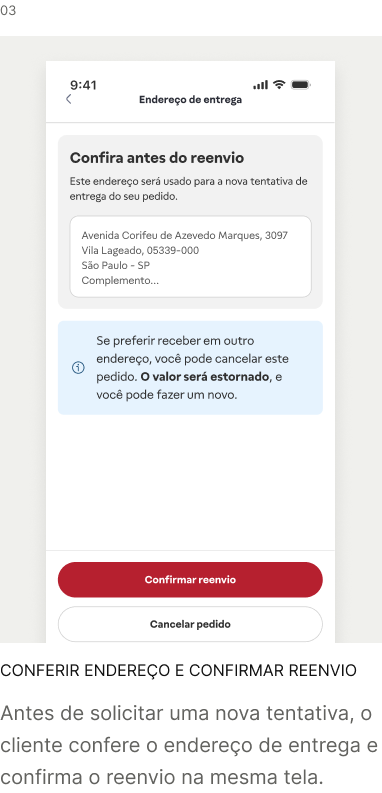
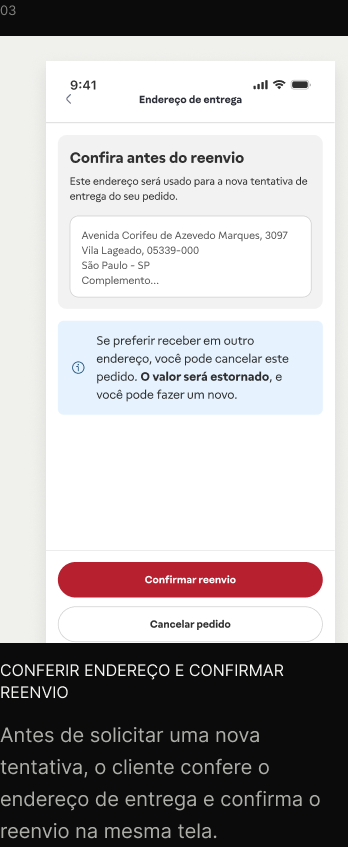
fix: use figma exports for reenvio solution

diff --git a/components/product-artifacts.tsx b/components/product-artifacts.tsx
@@ -1,168 +1,61 @@
 "use client";
 
+import type { CSSProperties } from "react";
 import { PortfolioCarousel } from "@/components/carousel";
 
-function PhoneFrame({ children }: { children: React.ReactNode }) {
-  return (
-    <div className="product-phone">
-      <div className="product-phone__status">
-        <span>9:41</span>
-        <span>● ● ●</span>
-      </div>
-      {children}
-    </div>
-  );
-}
+const reenvioSolutionSlides = [
+  {
+    title: "Problema na entrega",
+    description: "O produto comunica que o pedido retornou para a farmácia.",
+    desktop: { src: "/figma/reenvio-solution-desktop-1.png", width: 348, height: 760 },
+    mobile: { src: "/figma/reenvio-solution-mobile-1.png", width: 300, height: 597 },
+  },
+  {
+    title: "Pedido não entregue",
+    description: "Dentro do Tracking, o problema deixa de ser ambíguo e já apresenta uma próxima ação.",
+    desktop: { src: "/figma/reenvio-solution-desktop-2.png", width: 360, height: 796 },
+    mobile: { src: "/figma/reenvio-solution-mobile-2.png", width: 300, height: 625 },
+  },
+  {
+    title: "Conferir endereço e confirmar reenvio",
+    description: "Antes de solicitar uma nova tentativa, o cliente confere o endereço de entrega e confirma o reenvio na mesma tela.",
+    desktop: { src: "/figma/reenvio-solution-desktop-3.png", width: 348, height: 847 },
+    mobile: { src: "/figma/reenvio-solution-mobile-3.png", width: 300, height: 623 },
+  },
+  {
+    title: "Reenvio solicitado",
+    description: "O produto confirma que a solicitação foi recebida e informa que o status será atualizado.",
+    desktop: { src: "/figma/reenvio-solution-desktop-4.png", width: 164, height: 792 },
+    mobile: { src: "/figma/reenvio-solution-mobile-4.png", width: 300, height: 622 },
+  },
+] as const;
 
-function OrderProducts() {
+function ReenvioFigmaSlide({ slide, index }: { slide: typeof reenvioSolutionSlides[number]; index: number }) {
   return (
-    <div className="product-box">
-      <div className="product-box__row">
-        <strong>Produtos</strong>
-        <span>Exibir detalhes⌄</span>
+    <article
+      className="reenvio-figma-artifact"
+      style={{
+        "--artifact-width": `${slide.desktop.width}px`,
+        "--artifact-height": `${slide.desktop.height}px`,
+        "--artifact-mobile-height": `${slide.mobile.height}px`,
+      } as CSSProperties}
+    >
+      <p className="journey-artifact__number">{String(index + 1).padStart(2, "0")}</p>
+      <div className="reenvio-figma-artifact__media">
+        <picture>
+          <source media="(max-width: 767px)" srcSet={slide.mobile.src} />
+          <img
+            src={slide.desktop.src}
+            alt=""
+            width={slide.desktop.width}
+            height={slide.desktop.height}
+            loading="lazy"
+            decoding="async"
+          />
+        </picture>
       </div>
-      <div className="product-thumbs">
-        <span className="product-thumb product-thumb--purple">1x</span>
-        <span className="product-thumb product-thumb--yellow">1x</span>
-      </div>
-      <small>Vendido e entregue por Drogasil</small>
-    </div>
-  );
-}
-
-function TrackingHeader() {
-  return (
-    <div className="product-phone__nav">
-      <span>‹</span>
-      <strong>Detalhes do pedido</strong>
-      <span>Ajuda</span>
-    </div>
-  );
-}
-
-function ReenvioSlideOne() {
-  return (
-    <article className="journey-artifact">
-      <p className="journey-artifact__number">01</p>
-      <div className="recovery-home">
-        <div className="recovery-home__push">
-          <span className="mini-label">PUSH</span>
-          <div className="os-notification">
-            <strong>Problema na entrega</strong>
-            <p>Seu pedido retornou para a farmácia. Mais detalhes no app ou site.</p>
-            <span>há 34m</span>
-          </div>
-        </div>
-        <div className="recovery-home__phone">
-          <PhoneFrame>
-            <div className="fake-search">Buscar na Drogasil</div>
-            <div className="fake-home-card">
-              <span className="status-dot status-dot--pink" />
-              <div>
-                <strong>Problema na entrega</strong>
-                <p>Seu pedido retornou para a farmácia.</p>
-              </div>
-            </div>
-            <div className="fake-home-grid">
-              <span>Ofertas exclusivas</span><span>Meus pedidos</span>
-              <span>Saúde</span><span>Mais vendidos</span>
-            </div>
-            <div className="fake-banner">Cuide do seu tratamento e pague do seu jeito</div>
-          </PhoneFrame>
-        </div>
-        <div className="recovery-home__live">
-          <span className="mini-label">LIVE IOS</span>
-          <div className="live-activity live-activity--small">
-            <div className="live-brand"><strong>DROGASIL</strong><span>Chega até 13:10</span></div>
-            <div className="live-alert">Problema na entrega</div>
-            <strong>Seu pedido retornou para a farmácia.</strong>
-          </div>
-        </div>
-      </div>
-      <h3>PROBLEMA NA ENTREGA</h3>
-      <p>O produto comunica que o pedido retornou para a farmácia.</p>
-    </article>
-  );
-}
-
-function ReenvioSlideTwo() {
-  return (
-    <article className="journey-artifact">
-      <p className="journey-artifact__number">02</p>
-      <div className="journey-artifact__stage">
-        <PhoneFrame>
-          <TrackingHeader />
-          <div className="tracking-alert">
-            <strong>Não conseguimos entregar seu pedido</strong>
-            <div className="tracking-state"><span className="status-dot status-dot--pink" />Pedido não entregue</div>
-            <p>Confira seu endereço para uma nova tentativa de entrega.</p>
-            <button>Conferir endereço</button>
-          </div>
-          <div className="product-box">
-            <strong>Endereço de entrega</strong>
-            <p><b>Roberto dos Santos Almeida</b><br />Rua Dr. Cardoso de Melo, 1524<br />Itaim Bibi - São Paulo, SP</p>
-          </div>
-          <OrderProducts />
-          <div className="product-summary">
-            <strong>Resumo de valores</strong><span>R$ 117,02</span>
-          </div>
-        </PhoneFrame>
-      </div>
-      <h3>PEDIDO NÃO ENTREGUE</h3>
-      <p>Dentro do Tracking, o problema deixa de ser ambíguo e já apresenta uma próxima ação.</p>
-    </article>
-  );
-}
-
-function ReenvioSlideThree() {
-  return (
-    <article className="journey-artifact">
-      <p className="journey-artifact__number">03</p>
-      <div className="journey-artifact__stage">
-        <PhoneFrame>
-          <div className="product-phone__nav"><span>‹</span><strong>Endereço de entrega</strong><span /></div>
-          <div className="address-check">
-            <strong>Confira antes do reenvio</strong>
-            <p>Este endereço será usado para a nova tentativa de entrega do seu pedido.</p>
-          </div>
-          <div className="address-card">
-            <span>Endereço de entrega</span>
-            <strong>Avenida Corifeu de Azevedo Marques, 3097</strong>
-            <p>Vila Lageado, 05339-000<br />São Paulo - SP<br />Complemento...</p>
-          </div>
-          <div className="info-card">ⓘ Se preferir receber em outro endereço, você pode cancelar este pedido. O valor será estornado, e você pode fazer um novo.</div>
-          <button className="phone-primary">Confirmar reenvio</button>
-          <button className="phone-link">Cancelar pedido</button>
-        </PhoneFrame>
-      </div>
-      <h3>CONFERIR ENDEREÇO E CONFIRMAR REENVIO</h3>
-      <p>Antes de solicitar uma nova tentativa, o cliente confere o endereço de entrega e confirma o reenvio na mesma tela.</p>
-    </article>
-  );
-}
-
-function ReenvioSlideFour() {
-  return (
-    <article className="journey-artifact">
-      <p className="journey-artifact__number">04</p>
-      <div className="journey-artifact__stage">
-        <PhoneFrame>
-          <TrackingHeader />
-          <div className="tracking-alert">
-            <strong>Não conseguimos entregar seu pedido</strong>
-            <div className="tracking-state"><span className="status-dot status-dot--pink" />Pedido não entregue</div>
-            <p>O reenvio do pedido foi solicitado. Em breve, o status será atualizado.</p>
-          </div>
-          <div className="success-strip">✓ Endereço confirmado. Nova tentativa de entrega solicitada.</div>
-          <div className="product-box">
-            <strong>Endereço de entrega</strong>
-            <p><b>Roberto dos Santos Almeida</b><br />Rua Dr. Cardoso de Melo, 1524<br />Itaim Bibi - São Paulo, SP</p>
-          </div>
-          <OrderProducts />
-        </PhoneFrame>
-      </div>
-      <h3>REENVIO SOLICITADO</h3>
-      <p>O produto confirma que a solicitação foi recebida e informa que o status será atualizado.</p>
+      <h3>{slide.title}</h3>
+      <p>{slide.description}</p>
     </article>
   );
 }
@@ -174,7 +67,9 @@ export function ReenvioSolutionCarousel() {
       className="reenvio-native-carousel"
       slideClassName="reenvio-native-slide"
     >
-      {[<ReenvioSlideOne key="1" />, <ReenvioSlideTwo key="2" />, <ReenvioSlideThree key="3" />, <ReenvioSlideFour key="4" />]}
+      {reenvioSolutionSlides.map((slide, index) => (
+        <ReenvioFigmaSlide slide={slide} index={index} key={slide.title} />
+      ))}
     </PortfolioCarousel>
   );
 }

diff --git a/app/globals.css b/app/globals.css
@@ -954,7 +954,7 @@ img { display: block; max-width: 100%; height: auto; }
 }
 
 .reenvio-native-slide {
-  flex-basis: 348px;
+  flex: 0 0 auto;
 }
 
 .journey-artifact {
@@ -988,6 +988,47 @@ img { display: block; max-width: 100%; height: auto; }
 }
 
 .journey-artifact > p:last-child {
+  margin: 0;
+  color: var(--muted);
+  font-size: 17px;
+  line-height: 26px;
+}
+
+.reenvio-figma-artifact {
+  width: var(--artifact-width);
+  max-width: calc(100vw - 48px);
+}
+
+.reenvio-figma-artifact__media {
+  width: var(--artifact-width);
+  height: var(--artifact-height);
+  max-width: 100%;
+  overflow: hidden;
+  border: 1px solid var(--border);
+  border-radius: 16px;
+  background: #f0f0ed;
+}
+
+.reenvio-figma-artifact__media picture,
+.reenvio-figma-artifact__media img {
+  width: 100%;
+  height: 100%;
+  display: block;
+}
+
+.reenvio-figma-artifact__media img {
+  object-fit: cover;
+}
+
+.reenvio-figma-artifact h3 {
+  margin: 18px 0 8px;
+  color: var(--text);
+  font-size: 16px;
+  line-height: 22px;
+  font-weight: 600;
+}
+
+.reenvio-figma-artifact > p:last-child {
   margin: 0;
   color: var(--muted);
   font-size: 17px;
@@ -2477,6 +2518,15 @@ img { display: block; max-width: 100%; height: auto; }
   /* Reenvio native mobile */
   .reenvio-native-carousel { margin-top: 28px !important; }
   .reenvio-native-slide { flex-basis: 300px; }
+  .reenvio-figma-artifact {
+    width: 300px;
+  }
+
+  .reenvio-figma-artifact__media {
+    width: 300px;
+    height: var(--artifact-mobile-height);
+  }
+
   .journey-artifact { width: 300px; }
   .journey-artifact__stage,
   .recovery-home {
@@ -2504,6 +2554,16 @@ img { display: block; max-width: 100%; height: auto; }
   }
 
   .journey-artifact > p:last-child {
+    font-size: 15px;
+    line-height: 23px;
+  }
+
+  .reenvio-figma-artifact h3 {
+    font-size: 15px;
+    line-height: 21px;
+  }
+
+  .reenvio-figma-artifact > p:last-child {
     font-size: 15px;
     line-height: 23px;
   }

diff --git a/next-env.d.ts b/next-env.d.ts
@@ -1,5 +1,7 @@
 /// <reference types="next" />
 /// <reference types="next/image-types/global" />
+import "./.next/types/routes.d.ts";
+import "./.next/types/root-params.d.ts";
 
 // NOTE: This file should not be edited
 // see https://nextjs.org/docs/app/api-reference/config/typescript for more information.
